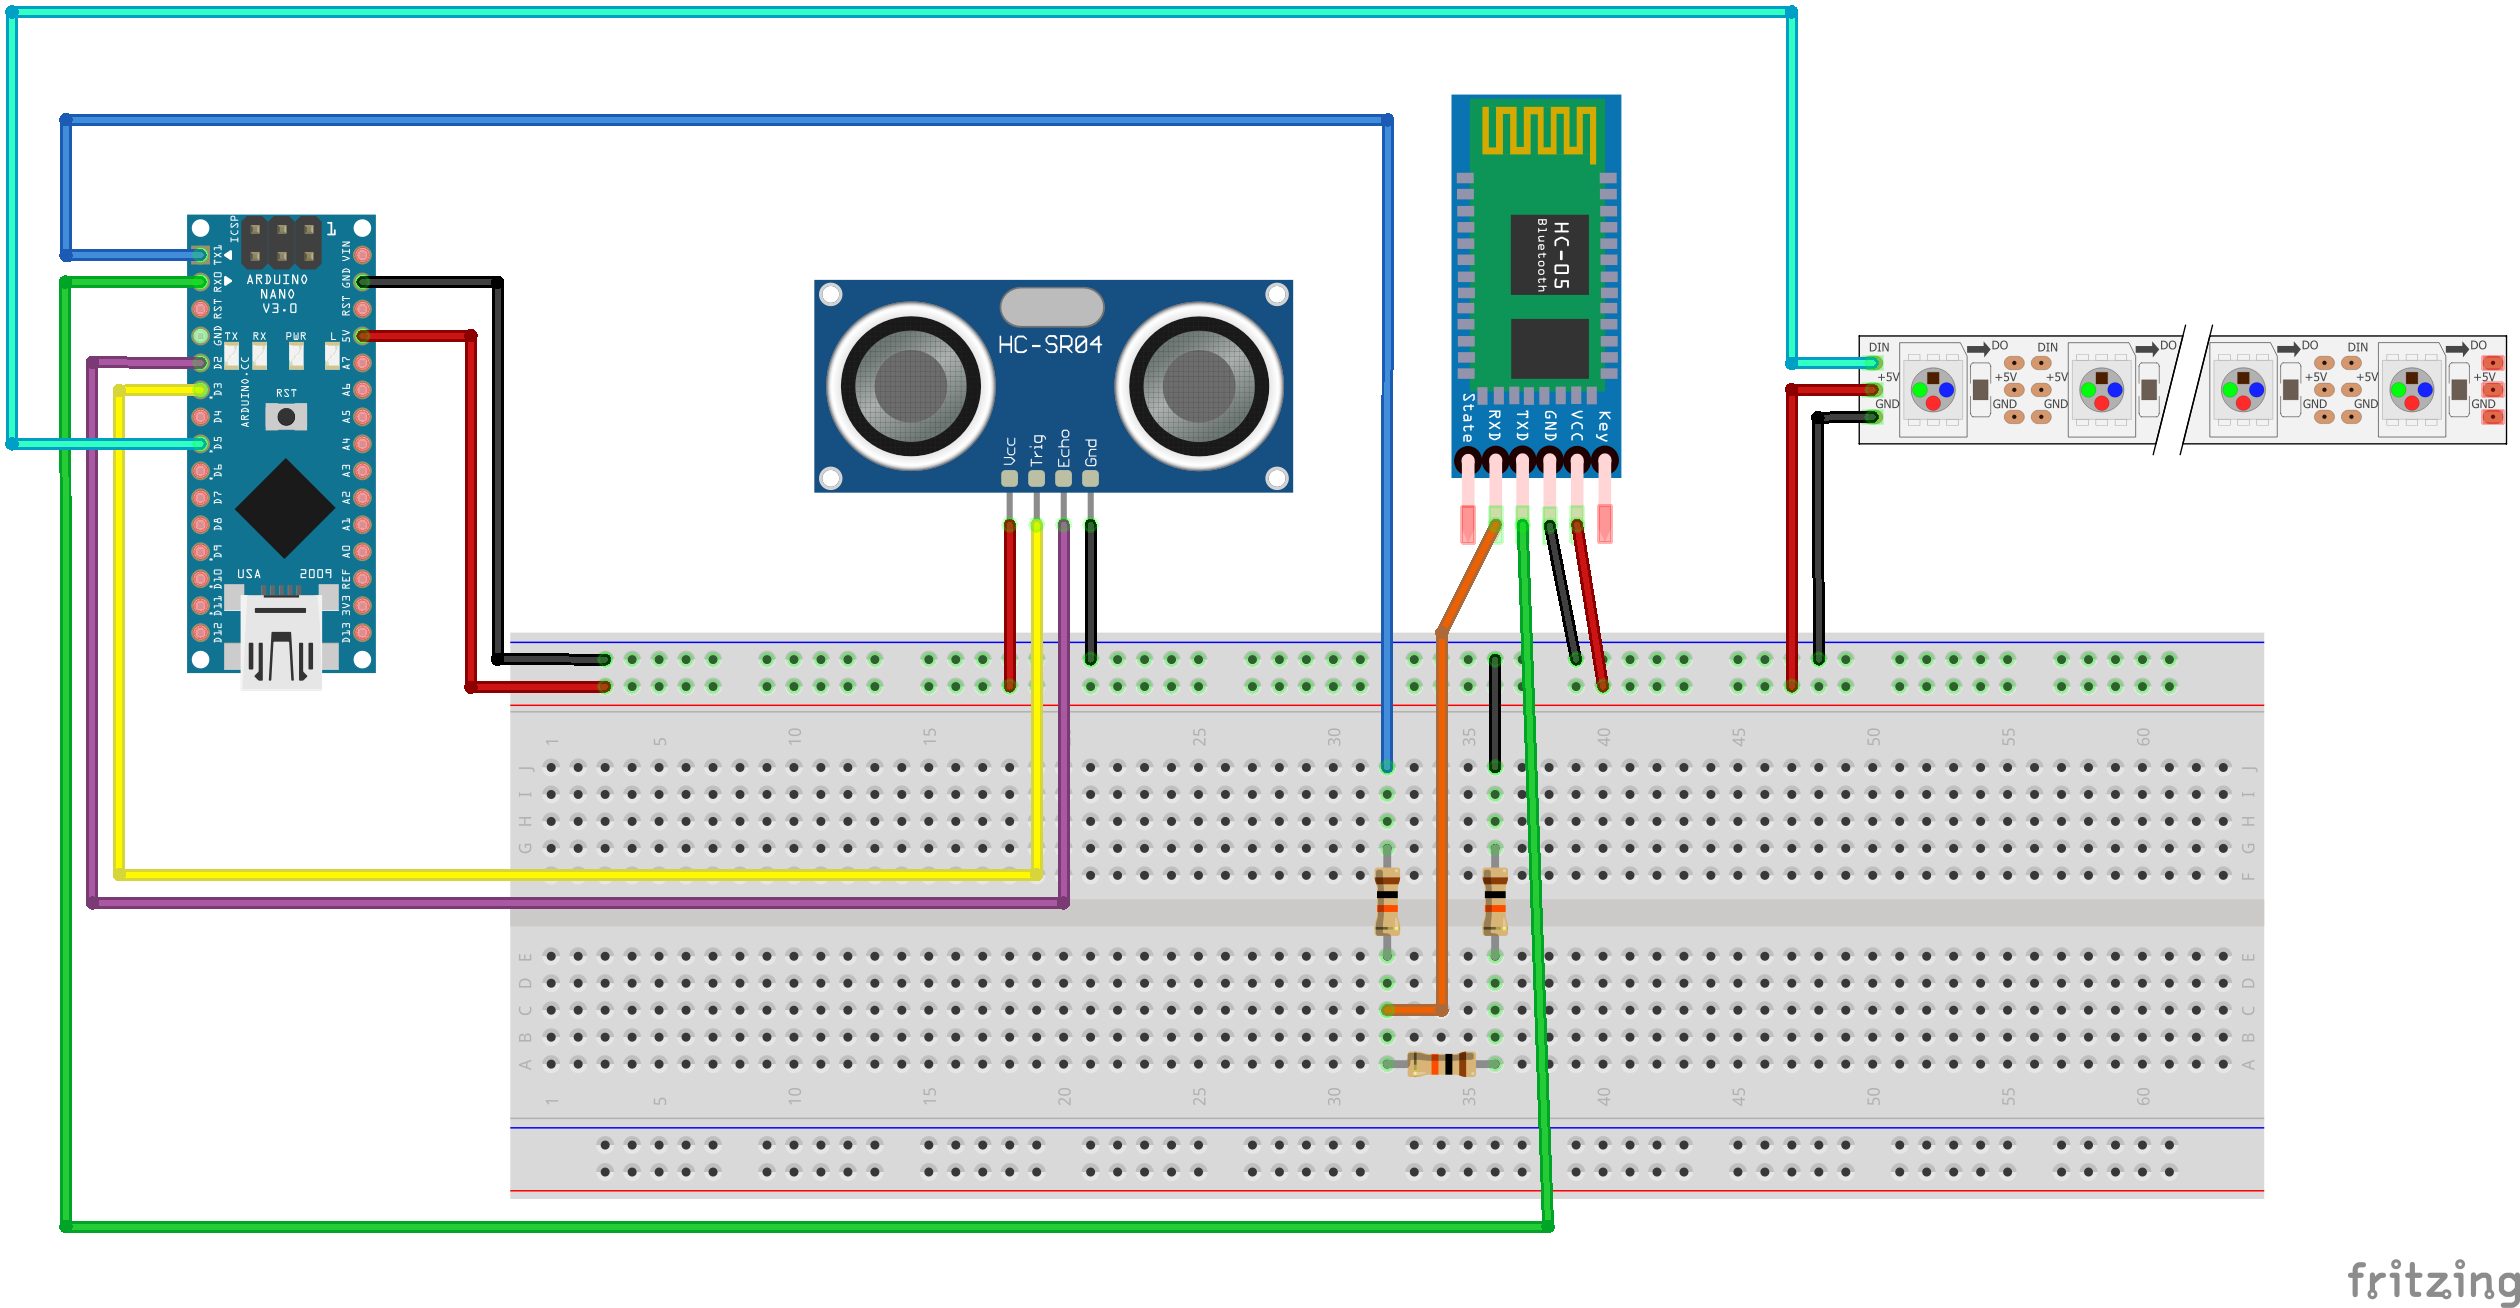
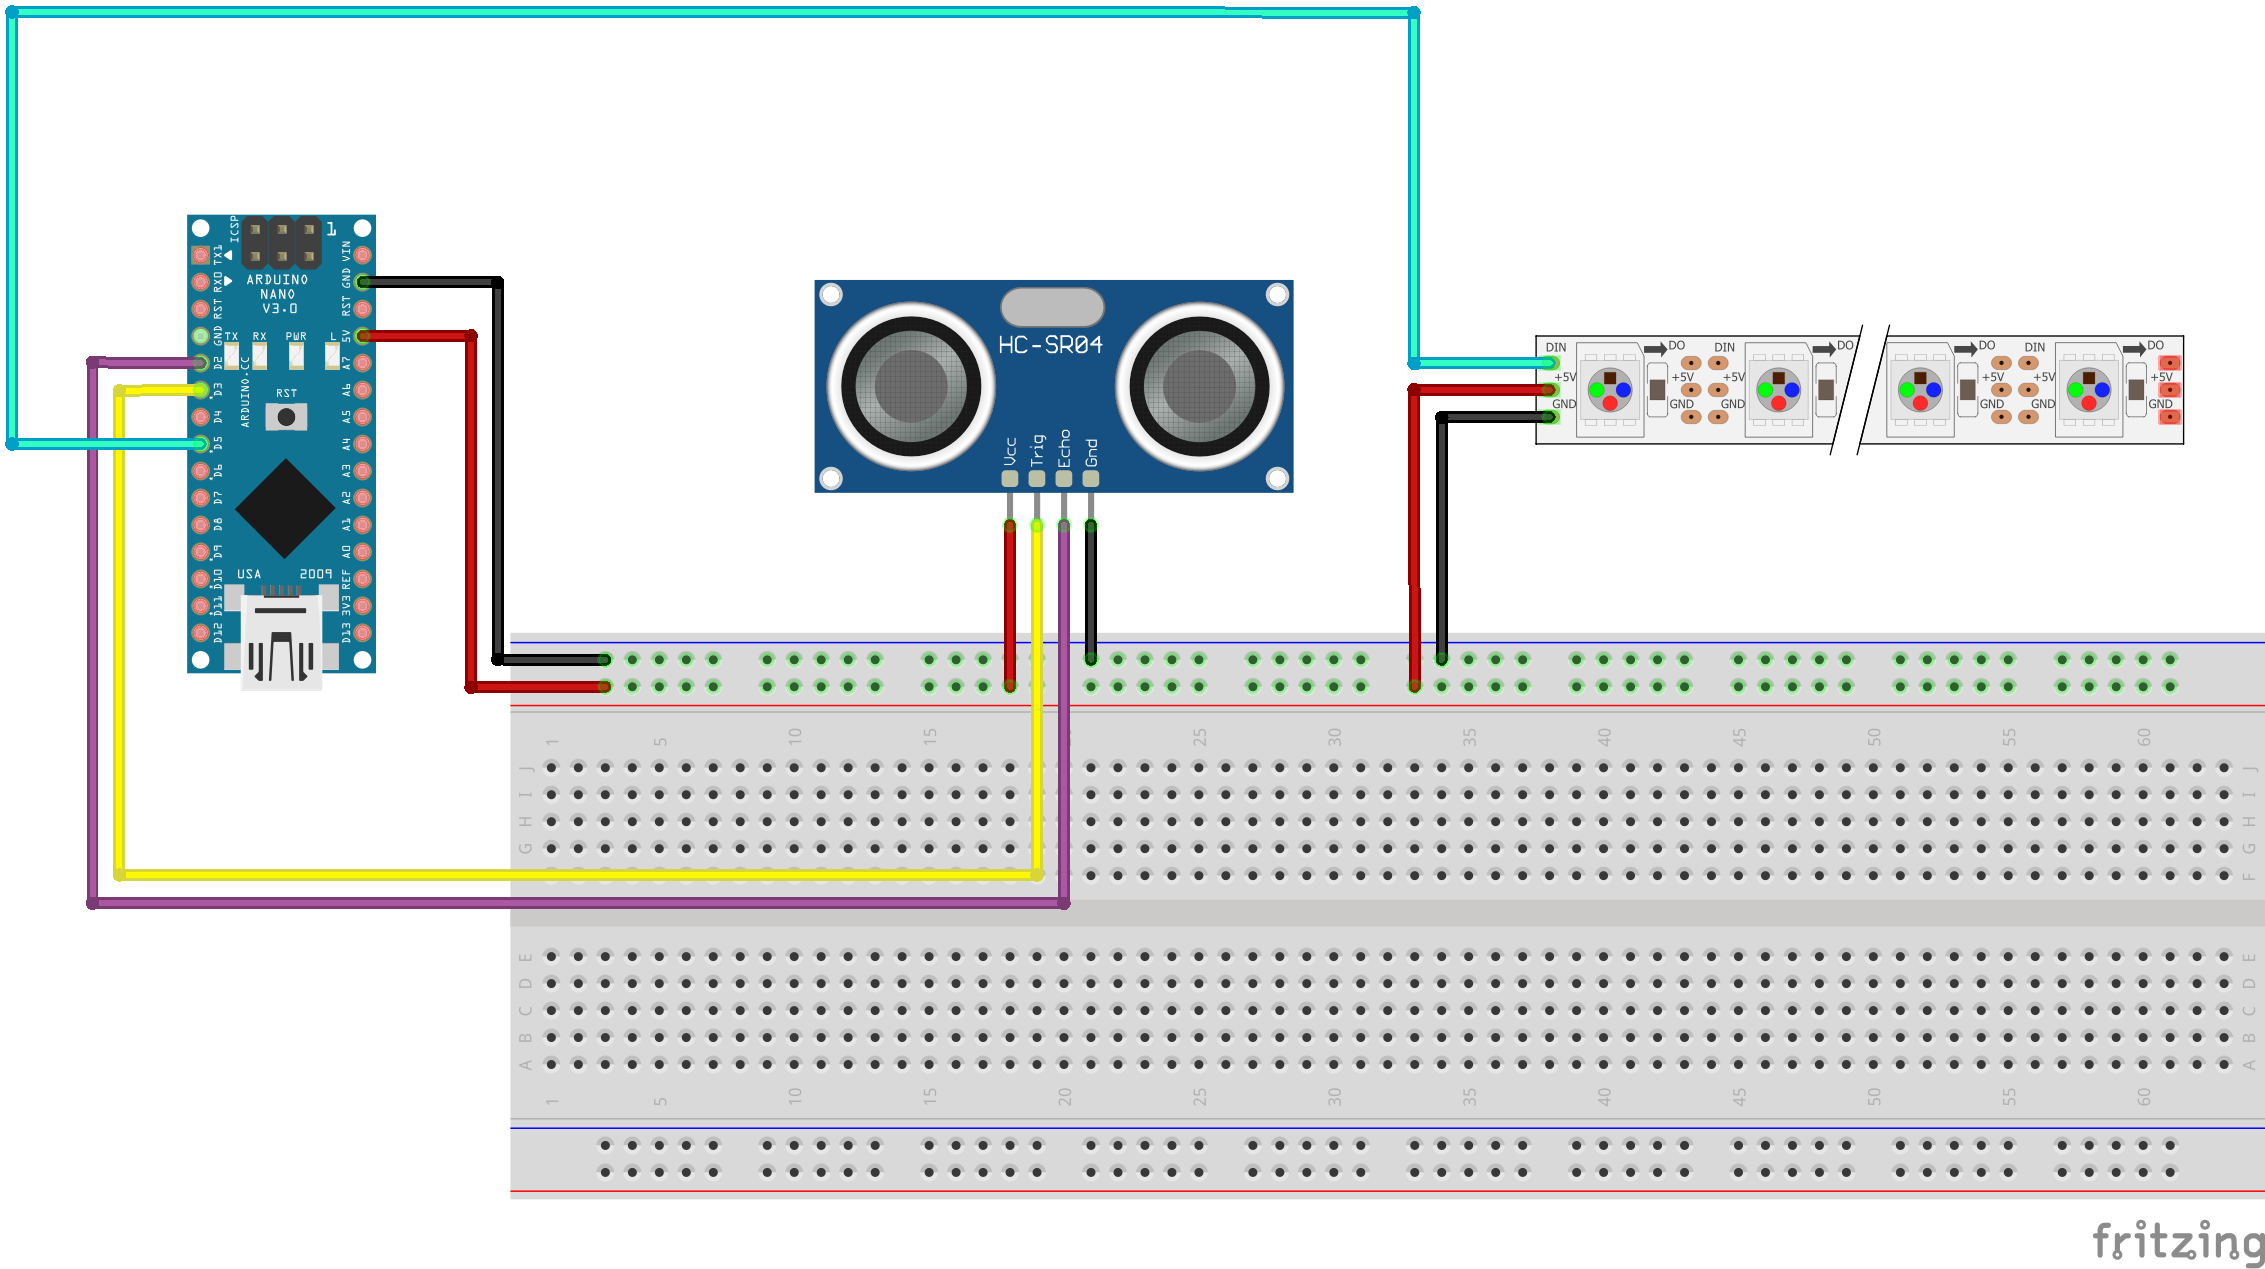
remove Bluetooth support

diff --git a/src/main.cpp b/src/main.cpp
@@ -49,7 +49,7 @@ void loop()
 
       if (now >= bluetoothTimer)
       {
-        // send data via Bluetooth
+        // send data via serial port
         Serial.print(sensor.getDistance());
         Serial.print(";");
         Serial.print(sensor.getSideDistance());
